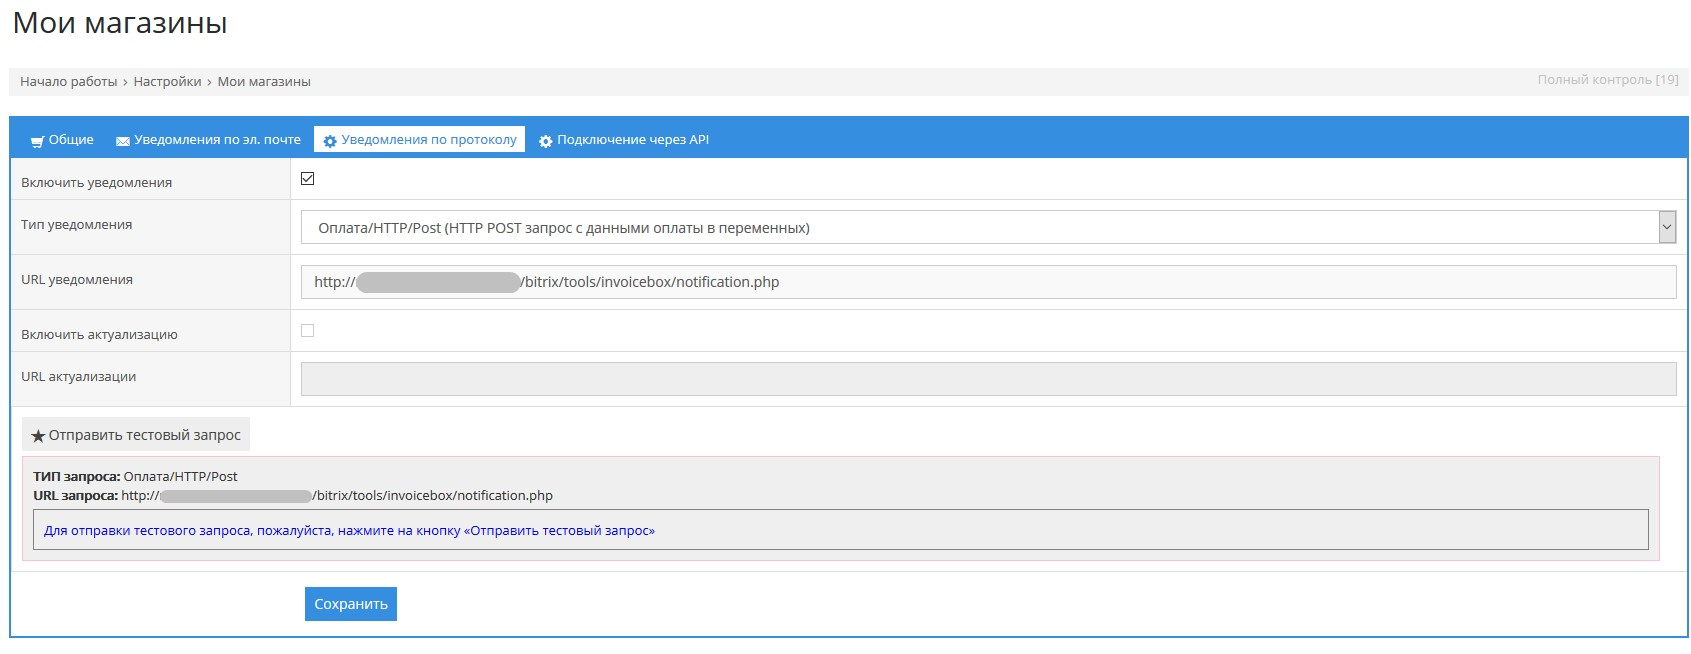
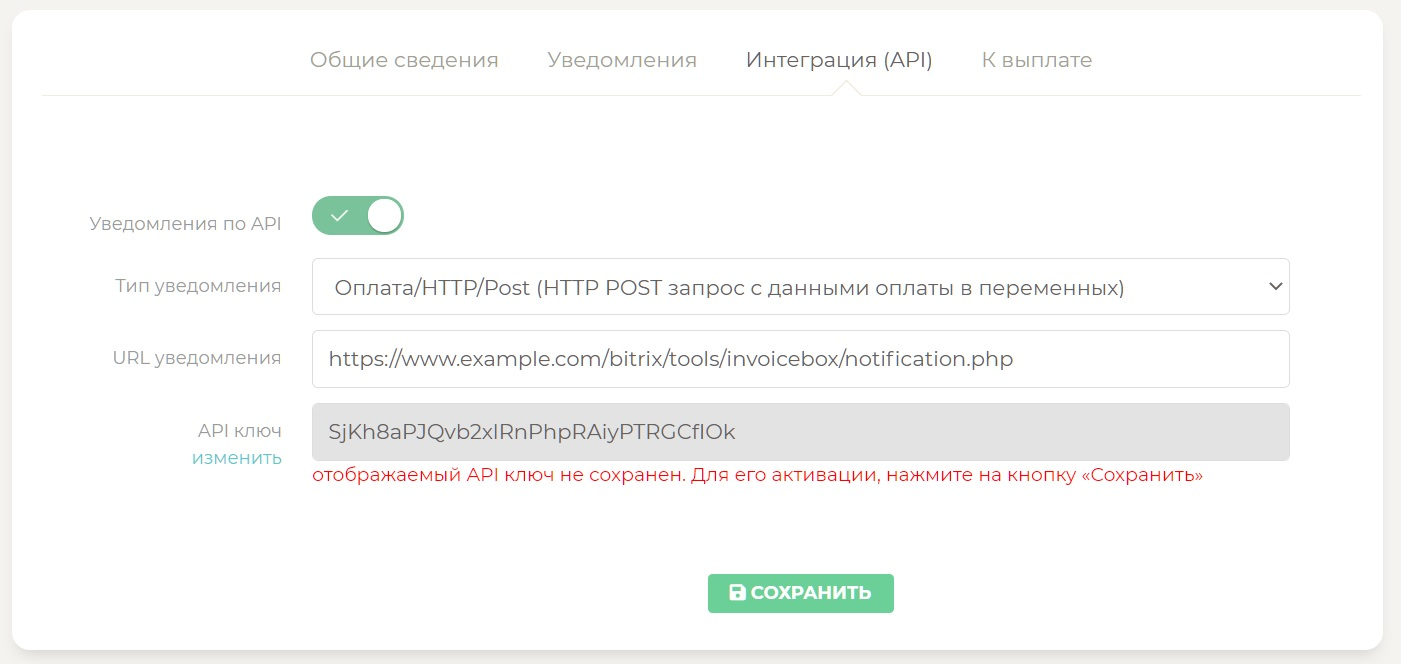
Description update

diff --git a/README.md b/README.md
@@ -1,18 +1,18 @@
 # 1c-bitrix
-# Описание платежного модуля ИнвойсБокс для 1C-Bitrix
+# Описание платежного модуля Инвойсбокс для 1C-Bitrix
 
-Платёжный модуль Битрикс для интеграции платёжной системы «ИнвойсБокс» и CMS Битрикс. Реализована поддержка платёжного API. Протестировано на версиях Битрикс с 16 по 20, в кодировке cp-1251 и utf-8. 
+Платёжный модуль Битрикс для интеграции платёжной системы «Инвойсбокс» и CMS Битрикс. Реализована поддержка платёжного API. Протестировано на версиях Битрикс с 16 по 20, в кодировке cp-1251 и utf-8. 
 
-Модуль позволяет организовать оплату товаров в магазине на редакциях «Малый бизнес», «Бизнес», «Интернет-магазин + CRM» через систему «ИнвойсБокс». Система «ИнвойсБокс» позволяет Интернет-магазину принимать оплату через популярные инструменты - банковские карты, системы Интернет-банка, электронные деньги, терминалы, кассы банков и счета мобильных телефонов. Оплата приходит на расчётный счёт компании или индивидуального предпринимателя.
-При работе с «ИнвойсБокс» Интернет-магазину не требуется покупать и обслуживать онлайн-кассу в соответствии с ФЗ-54, чеки для плательщиков «ИнвойсБокс» формирует за Интернет-магазин.
+Модуль позволяет организовать оплату товаров в магазине на редакциях «Малый бизнес», «Бизнес», «Интернет-магазин + CRM» через систему «Инвойсбокс». Система «Инвойсбокс» позволяет Интернет-магазину принимать оплату через популярные инструменты - банковские карты, системы Интернет-банка, электронные деньги, терминалы, кассы банков и счета мобильных телефонов. Оплата приходит на расчётный счёт компании или индивидуального предпринимателя.
+При работе с «Инвойсбокс» Интернет-магазину не требуется покупать и обслуживать онлайн-кассу в соответствии с ФЗ-54, чеки для плательщиков «Инвойсбокс» формирует за Интернет-магазин.
 
-# Установка и настройка модуля ИнвойсБокс на Bitrix
+# Установка и настройка модуля Инвойсбокс на Bitrix
 
 ## Установка модуля
 
 1. Распакуйте архив. Скопируйте папку <strong>invoicebox.payment</strong> и всё её содержимое на Ваш сервер либо в папку <strong> \local\modules\ </strong> (если директории \local\modules\ не существует, то ее необходимо создать), либо в папку <strong> \bitrix\modules\ </strong>. Выбор папки производится на Ваше усмотрение, однако если у Вас используются на сайте и другие кастомные платежные системы, рекомендуем Вам расположить папку <strong>invoicebox.payment</strong> туда, где находятся и другие платежные системы.
 2. Зайдите в административную часть Вашего сайта, перейдите на страницу <strong>«MarketPlace» → «Установленные решения»</strong>;
-3. В списке доступных решений найдите модуль <strong>«ИнвойсБокс» (InvoiceBox, invoicebox.payment)</strong> и установите его .
+3. В списке доступных решений найдите модуль <strong>«Инвойсбокс» (Invoicebox, invoicebox.payment)</strong> и установите его .
 
 ### Примечания для упаковки модуля для разных версий
 
@@ -23,8 +23,8 @@
 ## Настройка модуля
 
 В административном разделе сайта перейдите на страницу <strong>«Магазин» → «Платёжные системы»</strong> и нажмите на кнопку «Добавить платёжную систему». На открывшейся странице:
-   - Выберите "Обработчик": <strong>«ИнвойсБокс»</strong> (invoicebox);
-   - Выберите тип платежной системы: ИнвойсБокс v2 или ИнвойсБокс v3;
+   - Выберите "Обработчик": <strong>«Инвойсбокс»</strong> (invoicebox);
+   - Выберите тип платежной системы: Инвойсбокс v2. Ваша версия v2;
    - Если требуется измените "Заголовок" и "Название";
    - <strong>(обязательно)</strong> Укажите кодировку "UTF-8";
    - <strong>(обязательно)</strong> Снимите, если установлены, 2 чекбокса "Разрешить печать чеков" и "Открывать в новом окне". 
@@ -32,17 +32,17 @@
 <img src="docimg/invoicebox_1.png">
 
 В блоке «Настройка обработчика ПС» настройте следующие параметры:
-   - В случае выбора в типе платежной системы версии ИнвойсБокс v2 требуется заполнить поля из блока «Настройки подключения к ИнвойсБокс v2»:
-     - ID магазина — укажите идентификатор магазина, полученный при заключении договора с «ИнвойсБокс»;
-     - Региональный код магазина — укажите региональный код магазина, полученный при заключении договора с «ИнвойсБокс»;
-     - API ключ — укажите ключ безопасности, полученный при заключении договора с «ИнвойсБокс»;
+   - В случае выбора в типе платежной системы версии Инвойсбокс v2 требуется заполнить поля из блока «Настройки подключения к Инвойсбокс v2»:
+     - ID магазина — укажите идентификатор магазина, полученный при заключении договора с «Инвойсбокс»;
+     - Региональный код магазина — укажите региональный код магазина, полученный при заключении договора с «Инвойсбокс»;
+     - API ключ — укажите ключ безопасности, полученный при заключении договора с «Инвойсбокс»;
      - URL страницы для отправки уведомлений — данный параметр обычно не требуется редактировать, т. к. он устанавливается по умолчанию и значение обязательно должно быть в виде http(s)://адрес_сайта/bitrix/tools/invoicebox/notification.php;
      - Тестовый режим - включите его для проведения тестовых платежей, при включении этого режима, вы пройдете все шаги в платежном терминале Invoicebox, но деньги с вашей карты списаны не будут
      <img src="docimg/invoicebox_2.png">
-   - В случае выбора в типе платежной системы версии ИнвойсБокс v3 требуется заполнить поля из блока «Настройки подключения к ИнвойсБокс v3»:
-     - Идентификатор магазина -  укажите идентификатор магазина, полученный при заключении договора с «ИнвойсБокс»;
+   - В случае выбора в типе платежной системы версии Инвойсбокс v3 требуется заполнить поля из блока «Настройки подключения к Инвойсбокс v3»:
+     - Идентификатор магазина -  укажите идентификатор магазина, полученный при заключении договора с «Инвойсбокс»;
      - Авторизационный токен - токен формируется в момент регистрации магазина в системе «Инвойсбокс» и направляется по электронной почте в письме «Об активации в системе «Инвойсбокс». В случае, если вы не получили данный ключ, вы можете сформировать его автоматически в личном кабинете (в разделе Настройки);
-     - Ключ для проверки подписи запроса — данный ключ можно получить в настройках интеграции магазина в ЛК ИнвойсБокс;
+     - Ключ для проверки подписи запроса — данный ключ можно получить в настройках интеграции магазина в ЛК Инвойсбокс;
      - Тип позиции у товаров каталога, Тип позиции у доставки — выберите один из двух вариантов (Товар или Сервис), данные поля необходимы для чека;
      - НДС на товары, НДС на доставку — выберите один из вариантов (не облагается, НДС 0%,. НДС 10%, НДСВ 20%, НДС брать из информации в товаре/ НДС брать из настроек доставки), данные поля необходимы для чека;
      - Тип оплаты — выберите один из вариантов (Полная предоплата, Предоплата, Аванс, Полная оплата), данные поля необходимы для чека;
@@ -80,12 +80,12 @@
 В административном разделе сайта перейдите на страницу <strong>«Настройки» → «Настройки продукта» → «Настройки модулей» → «Интернет-магазин»</strong> и во вкладке <strong>«Автоматизация процессов»</strong> настройте смену статусов заказа при получении оплаты.
 
 
-## Настройка в личном кабинете ИнвойсБокс
+## Настройка в личном кабинете Инвойсбокс
 
-1. Перейдите в свой личный кабинет https://login.invoicebox.ru/ и авторизуйтесь.
-2. Перейдите в раздел <strong>«Начало работы» → «Настройки» → «Мои магазины»</strong> во вкладке <strong>«Уведомления по протоколу»</strong>:
+1. Перейдите в свой личный кабинет https://business.invoicebox.ru/ и авторизуйтесь.
+2. Перейдите в раздел <strong>«Мои продажи» → «Мои магазины»</strong> во вкладке <strong>«Интеграция (API)»</strong>:
    - Выберите «Тип уведомления»: <strong>"Оплата/HTTP/Post (HTTP POST запрос с данными оплаты в переменных)"</strong>;
-   - В поле "URL уведомления" укажите адрес Вашего сайта <strong>http://<адрес_вашего_сайта>/bitrix/tools/invoicebox/notification.php</strong>;
+   - В поле "URL уведомления" укажите адрес Вашего сайта <strong>https://<адрес_вашего_сайта>/bitrix/tools/invoicebox/notification.php</strong>;
    - Проверьте корректность работы получения уведомления, нажав на кнопку «Отправить тестовый запрос»;
    - После проверки нажмите на кнопку «Сохранить».
 
